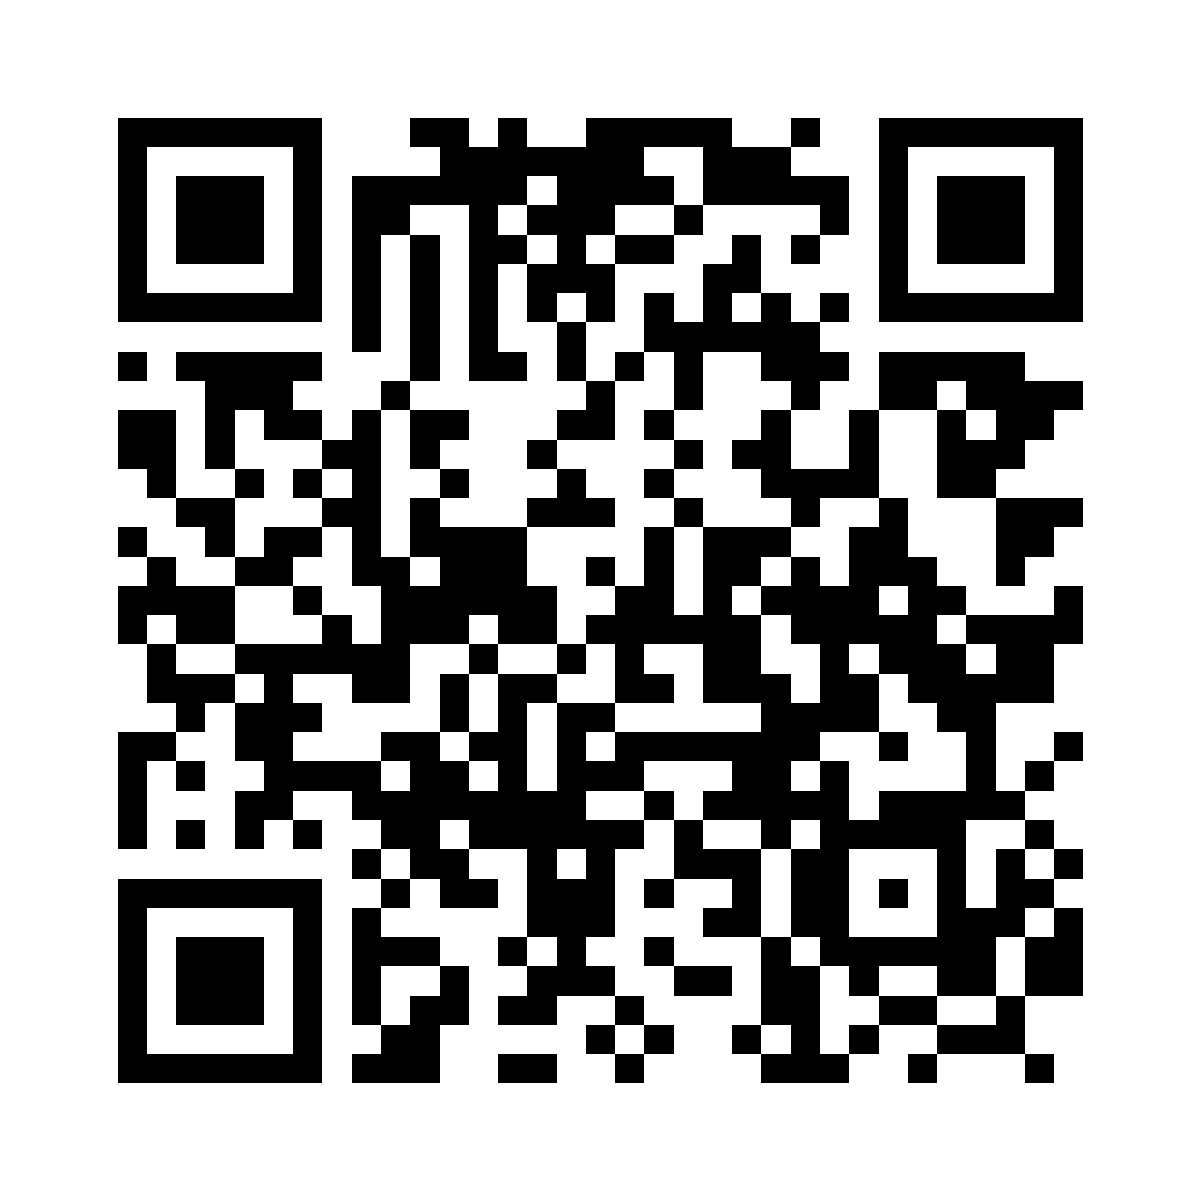
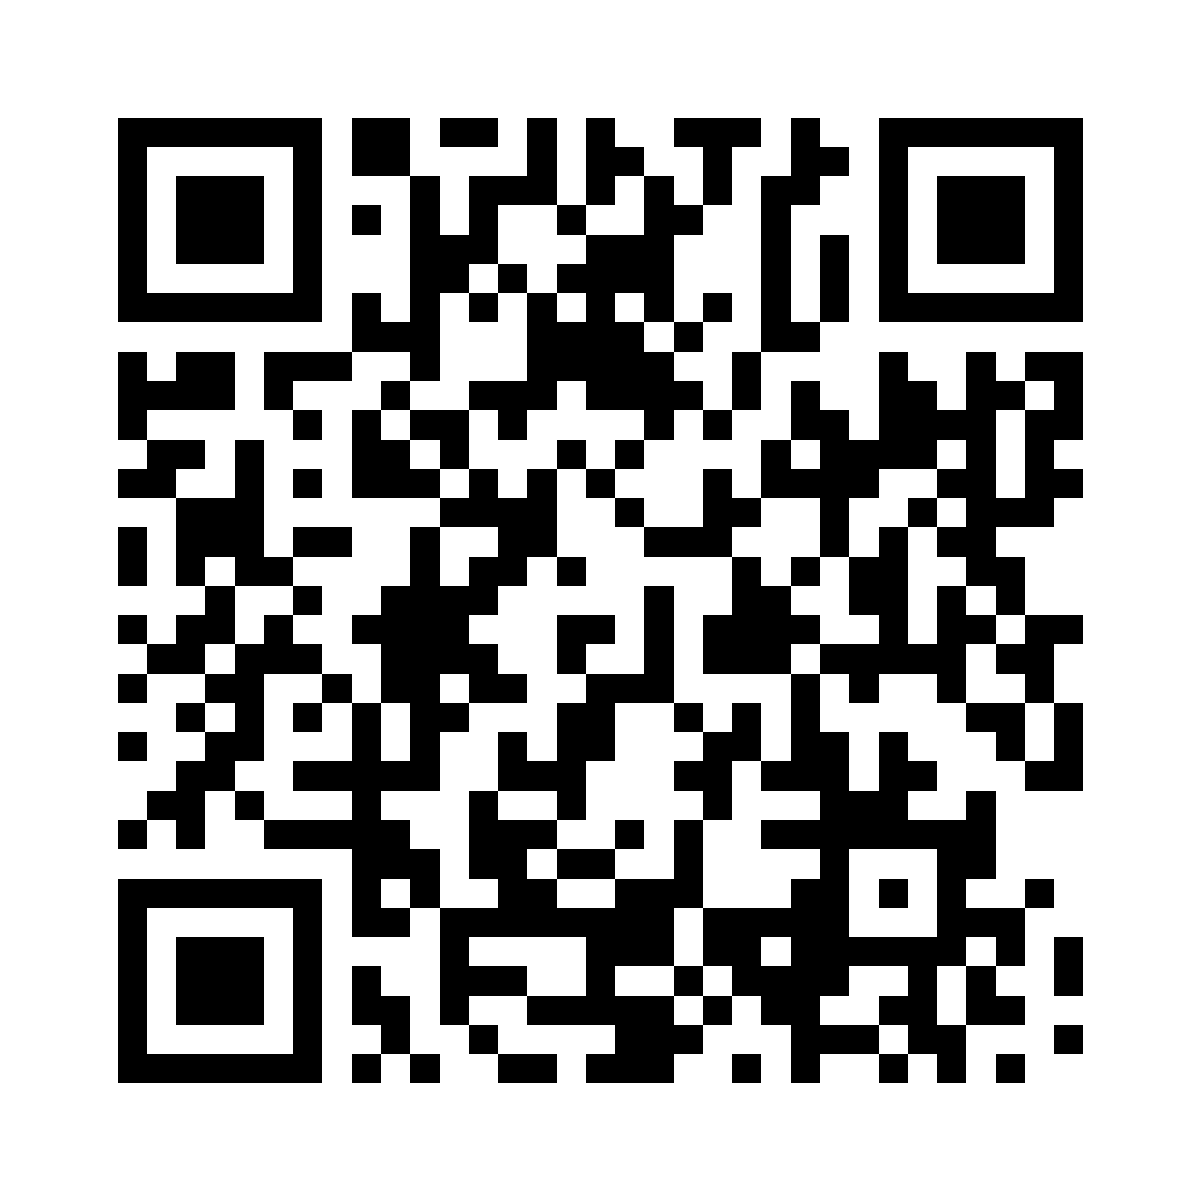
Regenerate QR codes for https://rox-calender.vercel.app
Claude-Session: https://claude.ai/code/session_01Fu933SeoEXNWo8j1MwLxAC

Changed region(s): [[0.0925, 0.0925, 0.925, 0.925]]

diff --git a/README.md b/README.md
@@ -19,7 +19,7 @@
 ICS の内容を変えたら `scripts/build.js` の `SEQUENCE` を 1 増やし `DTSTAMP` を更新してください。
 
 ## QR コード
-`qr/` に生成済み（`https://rox-calender-lp.vercel.app` 前提）。実ドメインが異なる場合は再生成:
+`qr/` に生成済み（`https://rox-calender.vercel.app` 前提）。実ドメインが異なる場合は再生成:
 
 ```bash
 npm i --no-save qrcode@1.5.4 && node scripts/qr.js https://<実際のドメイン>
